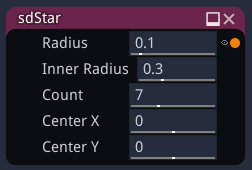
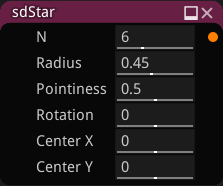
Use original sdstar from MM, update previews/doc

diff --git a/material_maker/doc/node_simple_sdf_shapes_sdstar.rst b/material_maker/doc/node_simple_sdf_shapes_sdstar.rst
@@ -21,13 +21,15 @@ Parameters
 
 The **sdStar** node accepts the following parameters:
 
-* **Radius** of the star.
+* The number of branches of the star.
 
-* **Inner Radius** of the star.
+* The **Radius** of the star.
 
-* **Count** of the sides for the star.
+* The **Pointiness** of the star.
 
-* Position of the center along the X and Y axis.
+* The **Rotation** of the star.
+
+* The position of the center on the X and Y axis
 
 Example images
 ::::::::::::::
